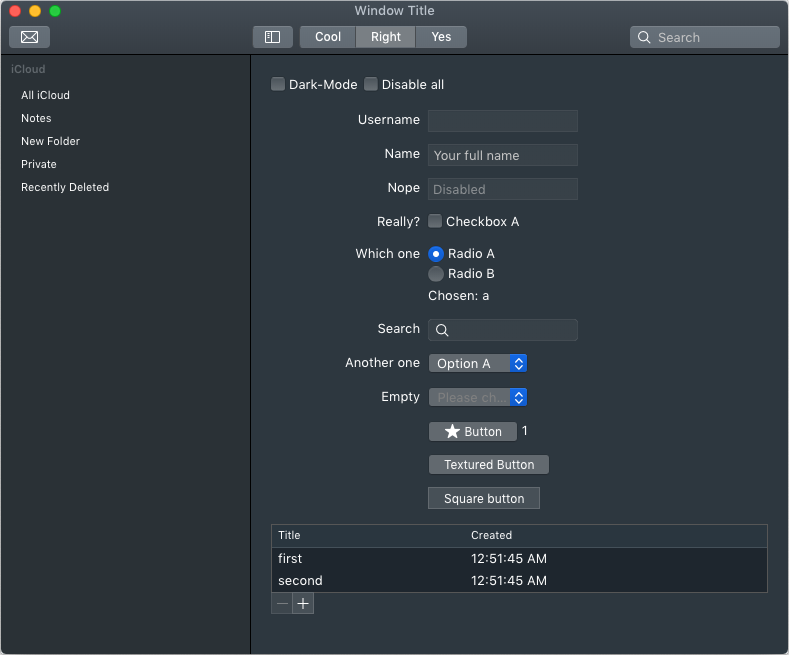
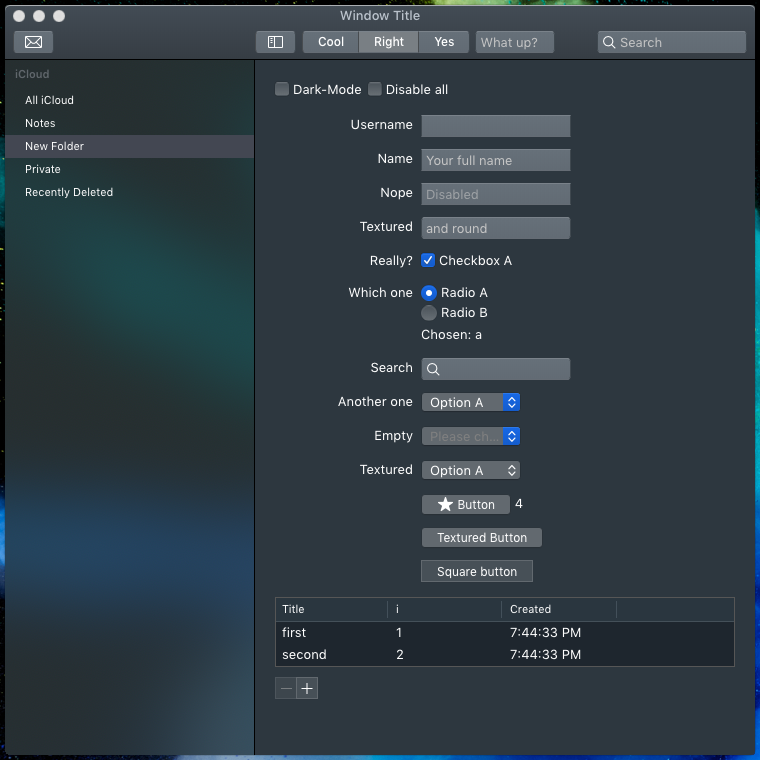
list correct dark style, new screenshots

Changed region(s): [[0.0, 0.0, 1.0, 1.0], [0.5145, 0.855, 0.5447, 0.8855]]

diff --git a/packages/native-ui/src/components/list/list.component.scss b/packages/native-ui/src/components/list/list.component.scss
@@ -19,3 +19,8 @@
 :host:not(:focus) ::ng-deep dui-list-item.selected {
     background-color: #bdcbd2;
 }
+
+:host-context(.dark):not(:focus) ::ng-deep dui-list-item.selected {
+    background-color: #434752;
+}
+
